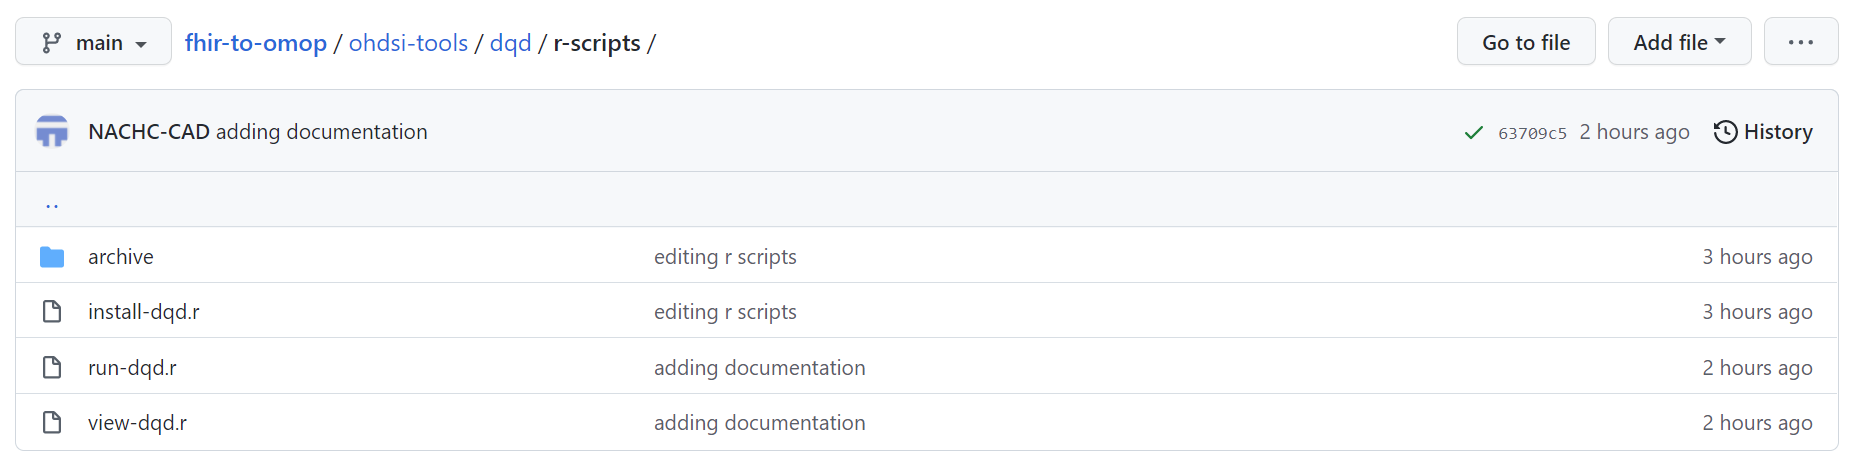
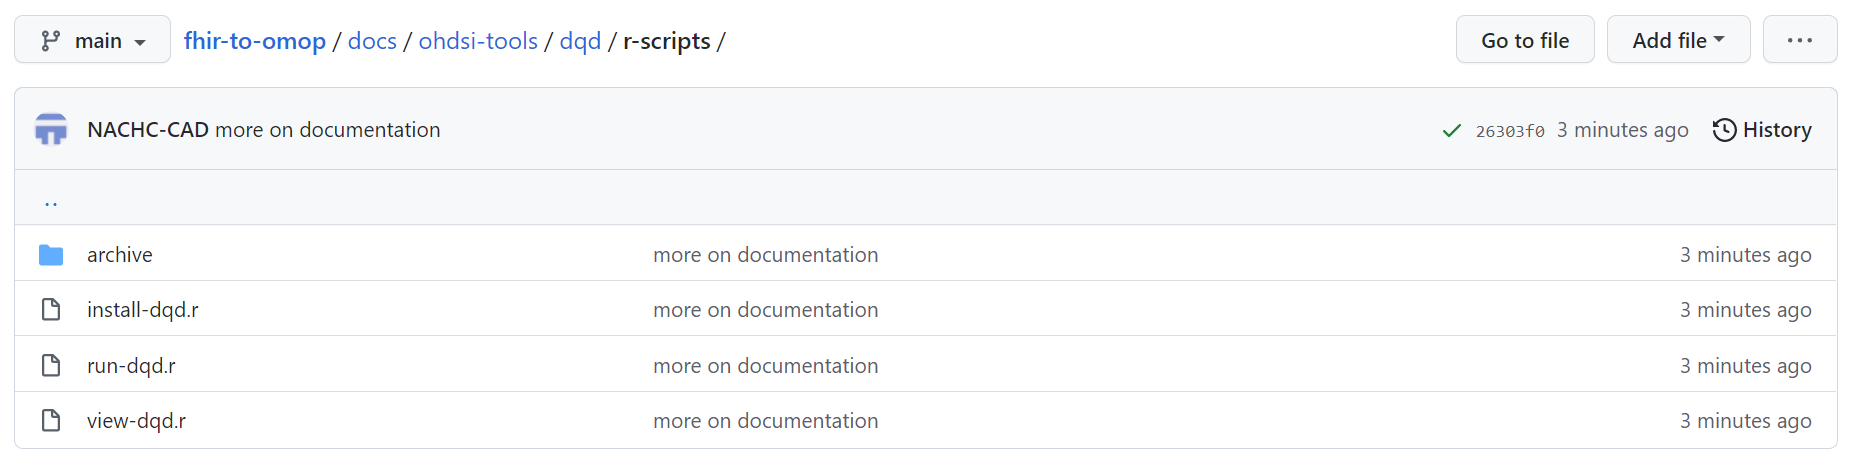
more on documentation

diff --git a/docs/pages/navbar/ohdsi-tools/dqd/DataQualityDashboard.html b/docs/pages/navbar/ohdsi-tools/dqd/DataQualityDashboard.html
@@ -33,6 +33,7 @@
 			<h2>Installing and Running DQD Quick Links</h2>
 			The scripts to in stall, run, and view the DQD are in Github <a target="github" href="https://github.com/NACHC-CAD/fhir-to-omop/tree/main/ohdsi-tools/dqd/r-scripts">here</a>.
 			Click on the links below to download the scripts individually.  
+			<br/>
 			<img src="/fhir-to-omop/pages/ohdsi-toos/dqd/img/dqd-scripts.PNG" />
 			<ul>
 				<li>

diff --git a/docs/header.html b/docs/header.html
@@ -310,7 +310,7 @@
 			All of fhir-to-omop is provided under the Apache 2 license<br/>
 			<a target="spritAnimals" href=/fhir-to-omop/pages/spirit-animals/SpiritAnimals.html>click here to meet our spirit animals</a><br/>
 			This is version 0.0.1 of the documentation<br/>
-			Last Updated: Saturday March 12, 2022 (11:14)<br/>
+			Last Updated: Saturday March 12, 2022 (11:20)<br/>
 		</p>
 	</div>
 
